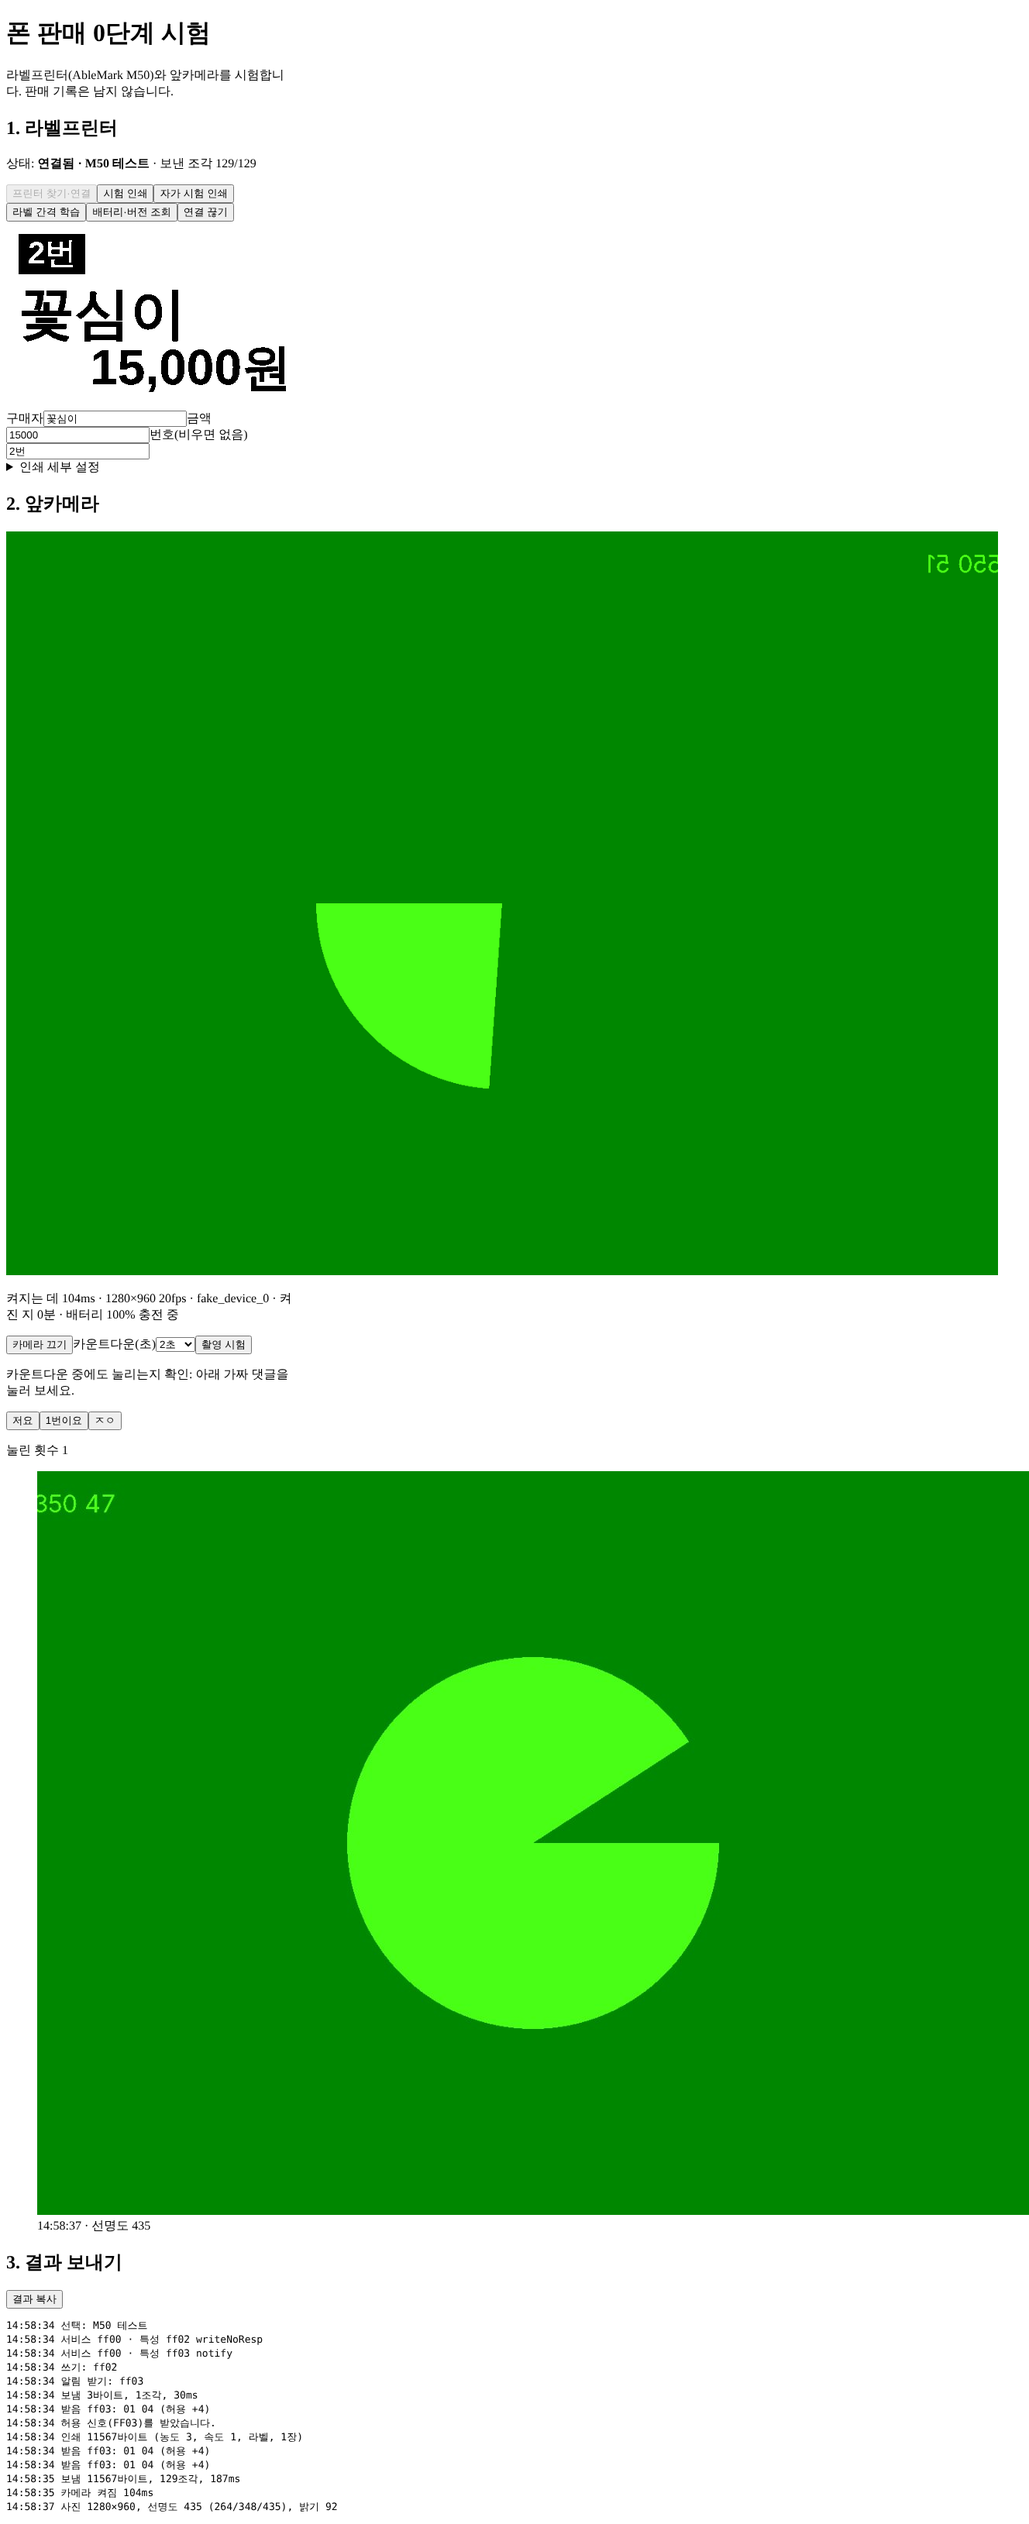
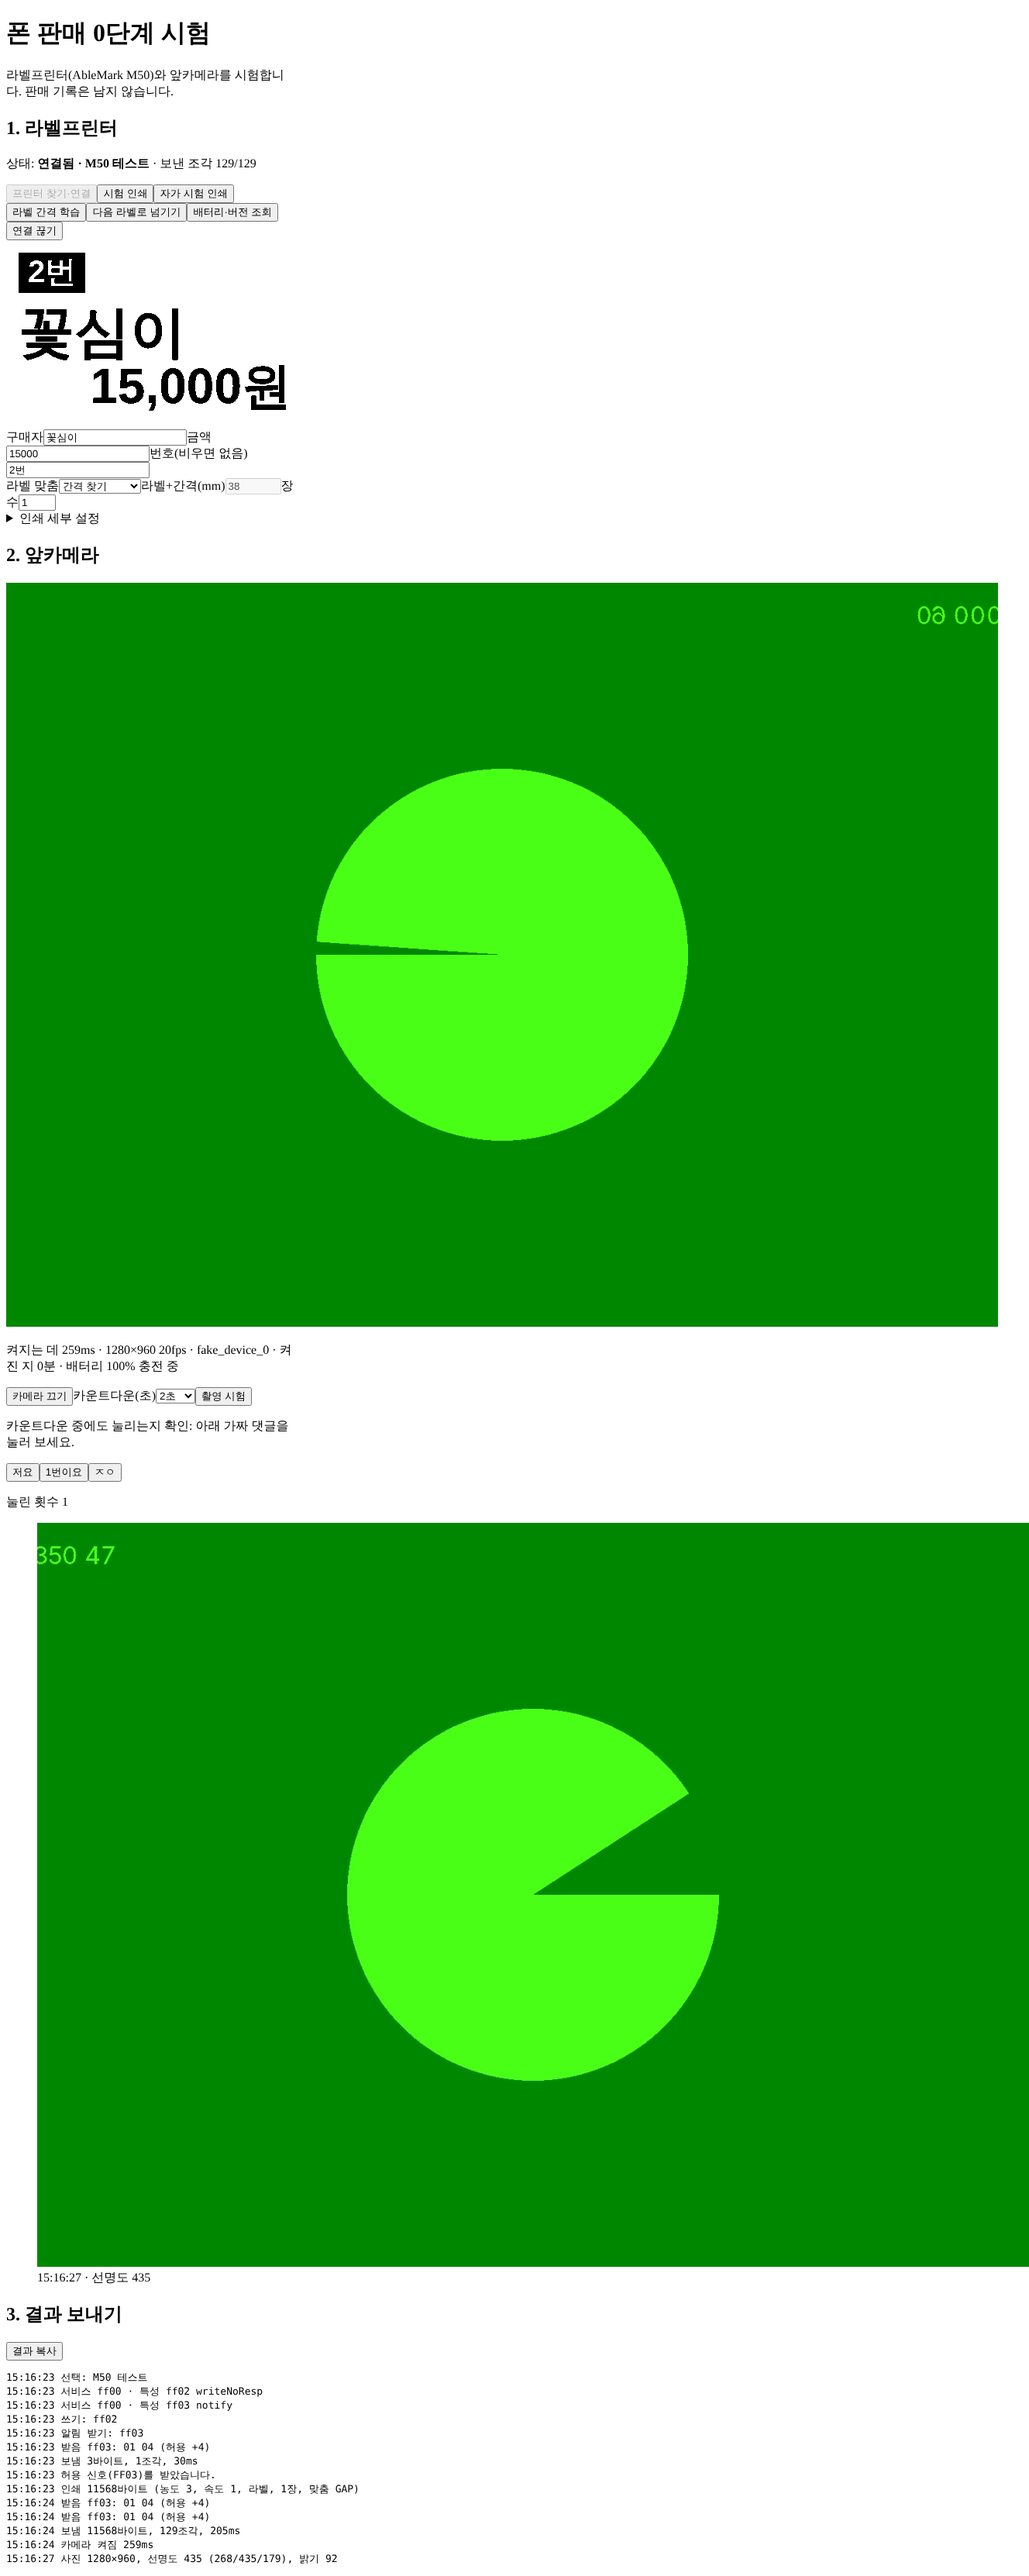
시험 화면: 라벨 맞춤 방식(간격 찾기·길이만큼 넘김) 추가
실제 M50에서 정렬 명령(1F1150)만으로는 간격을 건너뛰지 않고 라벨이 붙어서 인쇄됨
(라벨 30mm + 간격 8mm). 라벨마다 끝에 간격 찾기(1F 12 20 00)를 보내거나,
라벨+간격 길이에서 이미지 줄 수를 뺀 만큼(1F 11 00 H L) 넘기는 방식을 고를 수 있게 함.
기본은 간격 찾기, 길이는 38mm. "다음 라벨로 넘기기" 버튼 추가.

Claude-Session: https://claude.ai/code/session_012vDSLgpmShEWNsaqVKWTS4

diff --git a/src/pages/test/SellTestPage.tsx b/src/pages/test/SellTestPage.tsx
@@ -5,6 +5,7 @@ import {
   PAPER_CONTINUOUS,
   PAPER_GAP,
   buildPrintJob,
+  type LabelAlign,
   marklifeCommands,
   packBitmap,
 } from '../../services/labelPrinter/marklifeProtocol';
@@ -33,6 +34,8 @@ type Settings = {
   delayMs: number;
   chunkSize: number;
   threshold: number;
+  align: LabelAlign;
+  pitchMm: number;
   seconds: number;
 };
 const DEFAULTS: Settings = {
@@ -47,6 +50,8 @@ const DEFAULTS: Settings = {
   delayMs: 30,
   chunkSize: 90,
   threshold: 160,
+  align: 'GAP',
+  pitchMm: 38,
   seconds: 4,
 };
 const loadSettings = (): Settings => {
@@ -178,9 +183,11 @@ const SellTestPage: React.FC = () => {
         density: s.density,
         speed: s.speed,
         copies: s.copies,
+        align: s.align,
+        pitchMm: s.pitchMm,
       });
       addLog(
-        `인쇄 ${job.length}바이트 (농도 ${s.density}, 속도 ${s.speed}, ${s.paper === PAPER_GAP ? '라벨' : '연속'}, ${s.copies}장)`,
+        `인쇄 ${job.length}바이트 (농도 ${s.density}, 속도 ${s.speed}, ${s.paper === PAPER_GAP ? '라벨' : '연속'}, ${s.copies}장, 맞춤 ${s.align}${s.align === 'FIXED' ? ` ${s.pitchMm}mm` : ''})`,
       );
       const ms = await printer.current!.send(
         job,
@@ -189,7 +196,7 @@ const SellTestPage: React.FC = () => {
       );
       setPrintResults((prev) => [
         ...prev,
-        `${now()} 농도${s.density} 속도${s.speed} ${s.mode}/${s.delayMs}ms 조각${s.chunkSize} → ${ms}ms`,
+        `${now()} 맞춤${s.align}${s.align === 'FIXED' ? `/${s.pitchMm}mm` : ''} ${s.copies}장 농도${s.density} 속도${s.speed} ${s.mode}/${s.delayMs}ms 조각${s.chunkSize} → ${ms}ms`,
       ]);
     });
 
@@ -375,6 +382,16 @@ const SellTestPage: React.FC = () => {
             className={btn}
             disabled={busy || !connected}
             onClick={() =>
+              sendCommand('다음 라벨로', marklifeCommands.findGap())
+            }
+          >
+            다음 라벨로 넘기기
+          </button>
+          <button
+            type="button"
+            className={btn}
+            disabled={busy || !connected}
+            onClick={() =>
               sendCommand(
                 '배터리·버전 조회',
                 new Uint8Array([
@@ -431,6 +448,41 @@ const SellTestPage: React.FC = () => {
             />
           </Field>
         </div>
+        <div className="grid grid-cols-3 gap-2">
+          <Field label="라벨 맞춤">
+            <select
+              className={input}
+              value={s.align}
+              onChange={(e) => set('align', e.target.value as LabelAlign)}
+            >
+              <option value="GAP">간격 찾기</option>
+              <option value="FIXED">길이만큼 넘김</option>
+              <option value="AUTO">처음 방식</option>
+            </select>
+          </Field>
+          <Field label="라벨+간격(mm)">
+            <input
+              className={input}
+              type="number"
+              min={20}
+              max={80}
+              step={0.5}
+              disabled={s.align !== 'FIXED'}
+              value={s.pitchMm}
+              onChange={(e) => set('pitchMm', Number(e.target.value))}
+            />
+          </Field>
+          <Field label="장수">
+            <input
+              className={input}
+              type="number"
+              min={1}
+              max={5}
+              value={s.copies}
+              onChange={(e) => set('copies', Number(e.target.value))}
+            />
+          </Field>
+        </div>
         <details>
           <summary className="cursor-pointer text-sm font-bold text-slate-700">
             인쇄 세부 설정
@@ -454,16 +506,6 @@ const SellTestPage: React.FC = () => {
                 max={2}
                 value={s.speed}
                 onChange={(e) => set('speed', Number(e.target.value))}
-              />
-            </Field>
-            <Field label="장수">
-              <input
-                className={input}
-                type="number"
-                min={1}
-                max={5}
-                value={s.copies}
-                onChange={(e) => set('copies', Number(e.target.value))}
               />
             </Field>
             <Field label="종이">

diff --git a/src/services/labelPrinter/marklifeProtocol.ts b/src/services/labelPrinter/marklifeProtocol.ts
@@ -22,6 +22,11 @@ export const marklifeCommands = {
     bytes(0x1f, 0x60, 0x01, clamp(Math.round(level), 0, 2)),
   alignStart: () => bytes(0x1f, 0x11, 0x51),
   alignEnd: () => bytes(0x1f, 0x11, 0x50),
+  findGap: () => bytes(0x1f, 0x12, 0x20, 0x00),
+  feedDots: (dots: number) => {
+    const n = clamp(Math.round(dots), 0, 0xffff);
+    return bytes(0x1f, 0x11, 0x00, n >> 8, n & 0xff);
+  },
   selfTest: () => bytes(0x1f, 0x40),
   learnPaper: () => bytes(0x1f, 0x30, 0x60),
   status: () => bytes(0x1f, 0x20, 0x00),
@@ -119,12 +124,38 @@ export function bitmapCommand(bitmap: {
   return out;
 }
 
+export const DOTS_PER_MM = 8; // 203 dpi
+
+/**
+ * How each label ends. AUTO = align start/end commands only; on the M50 (2026-10-29)
+ * this printed labels back to back, ignoring the gap. GAP = ask the printer to find
+ * the next gap. FIXED = feed the rest of the label pitch (label + gap length).
+ */
+export type LabelAlign = 'AUTO' | 'GAP' | 'FIXED';
+
 export type PrintJobOptions = {
   paper?: number;
   density?: number;
   speed?: number;
   copies?: number;
+  align?: LabelAlign;
+  pitchMm?: number;
 };
+
+export function labelTail(
+  imageRows: number,
+  align: LabelAlign = 'AUTO',
+  pitchMm = 38,
+) {
+  if (align === 'GAP') return [marklifeCommands.findGap()];
+  if (align === 'FIXED')
+    return [
+      marklifeCommands.feedDots(
+        Math.max(0, Math.round(pitchMm * DOTS_PER_MM) - imageRows),
+      ),
+    ];
+  return [marklifeCommands.alignEnd()];
+}
 
 export function buildPrintJob(
   bitmap: { rowBytes: number; height: number; data: Uint8Array },
@@ -143,7 +174,7 @@ export function buildPrintJob(
       marklifeCommands.alignStart(),
       image,
       marklifeCommands.stop(),
-      marklifeCommands.alignEnd(),
+      ...labelTail(bitmap.height, options.align, options.pitchMm),
     );
   return concatBytes(parts);
 }
